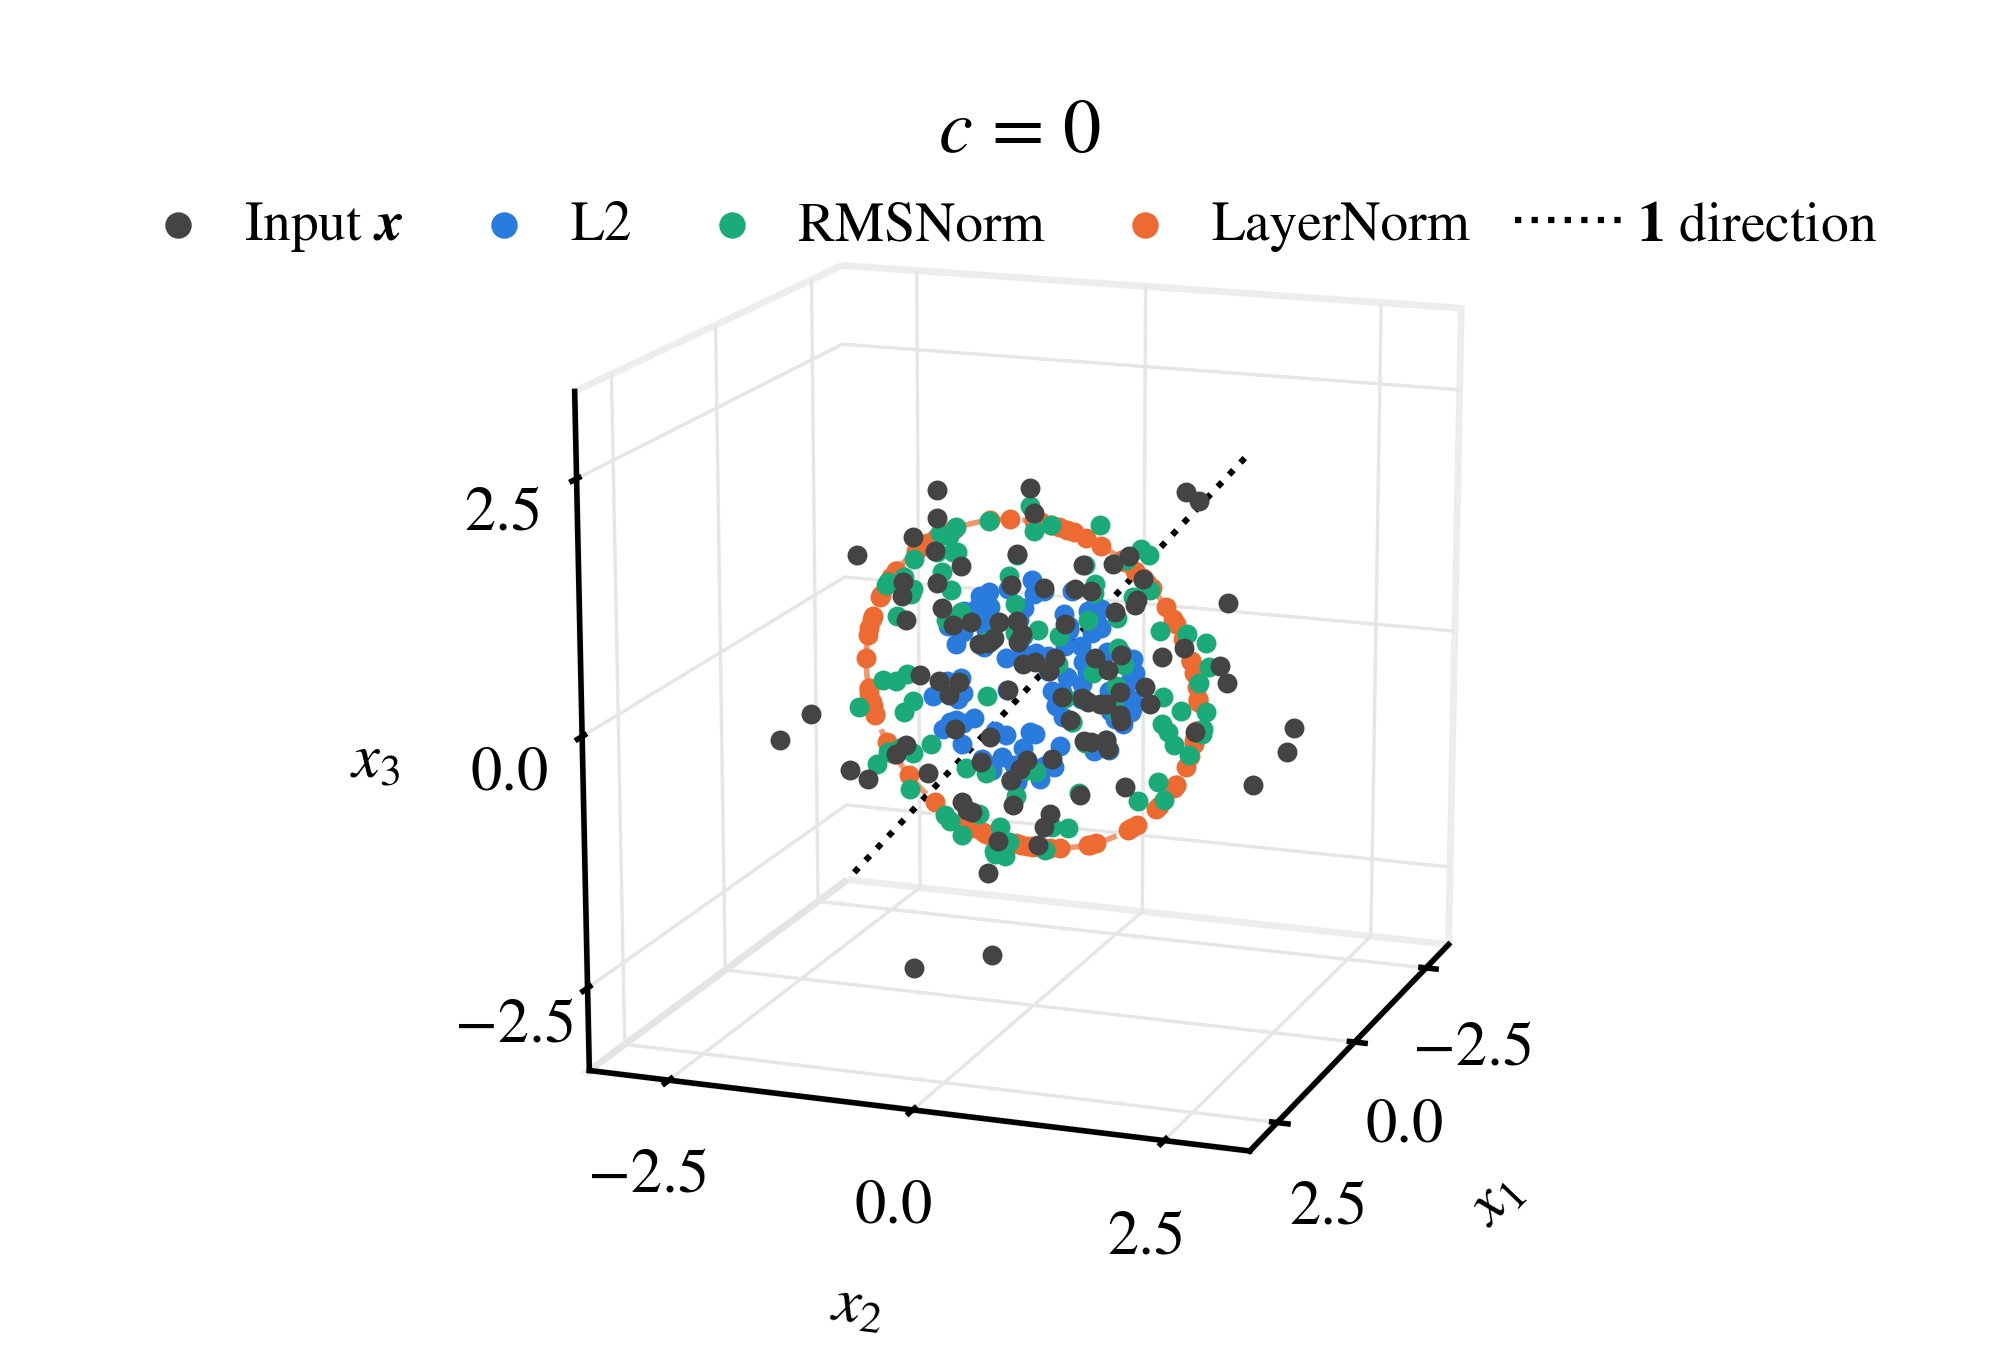
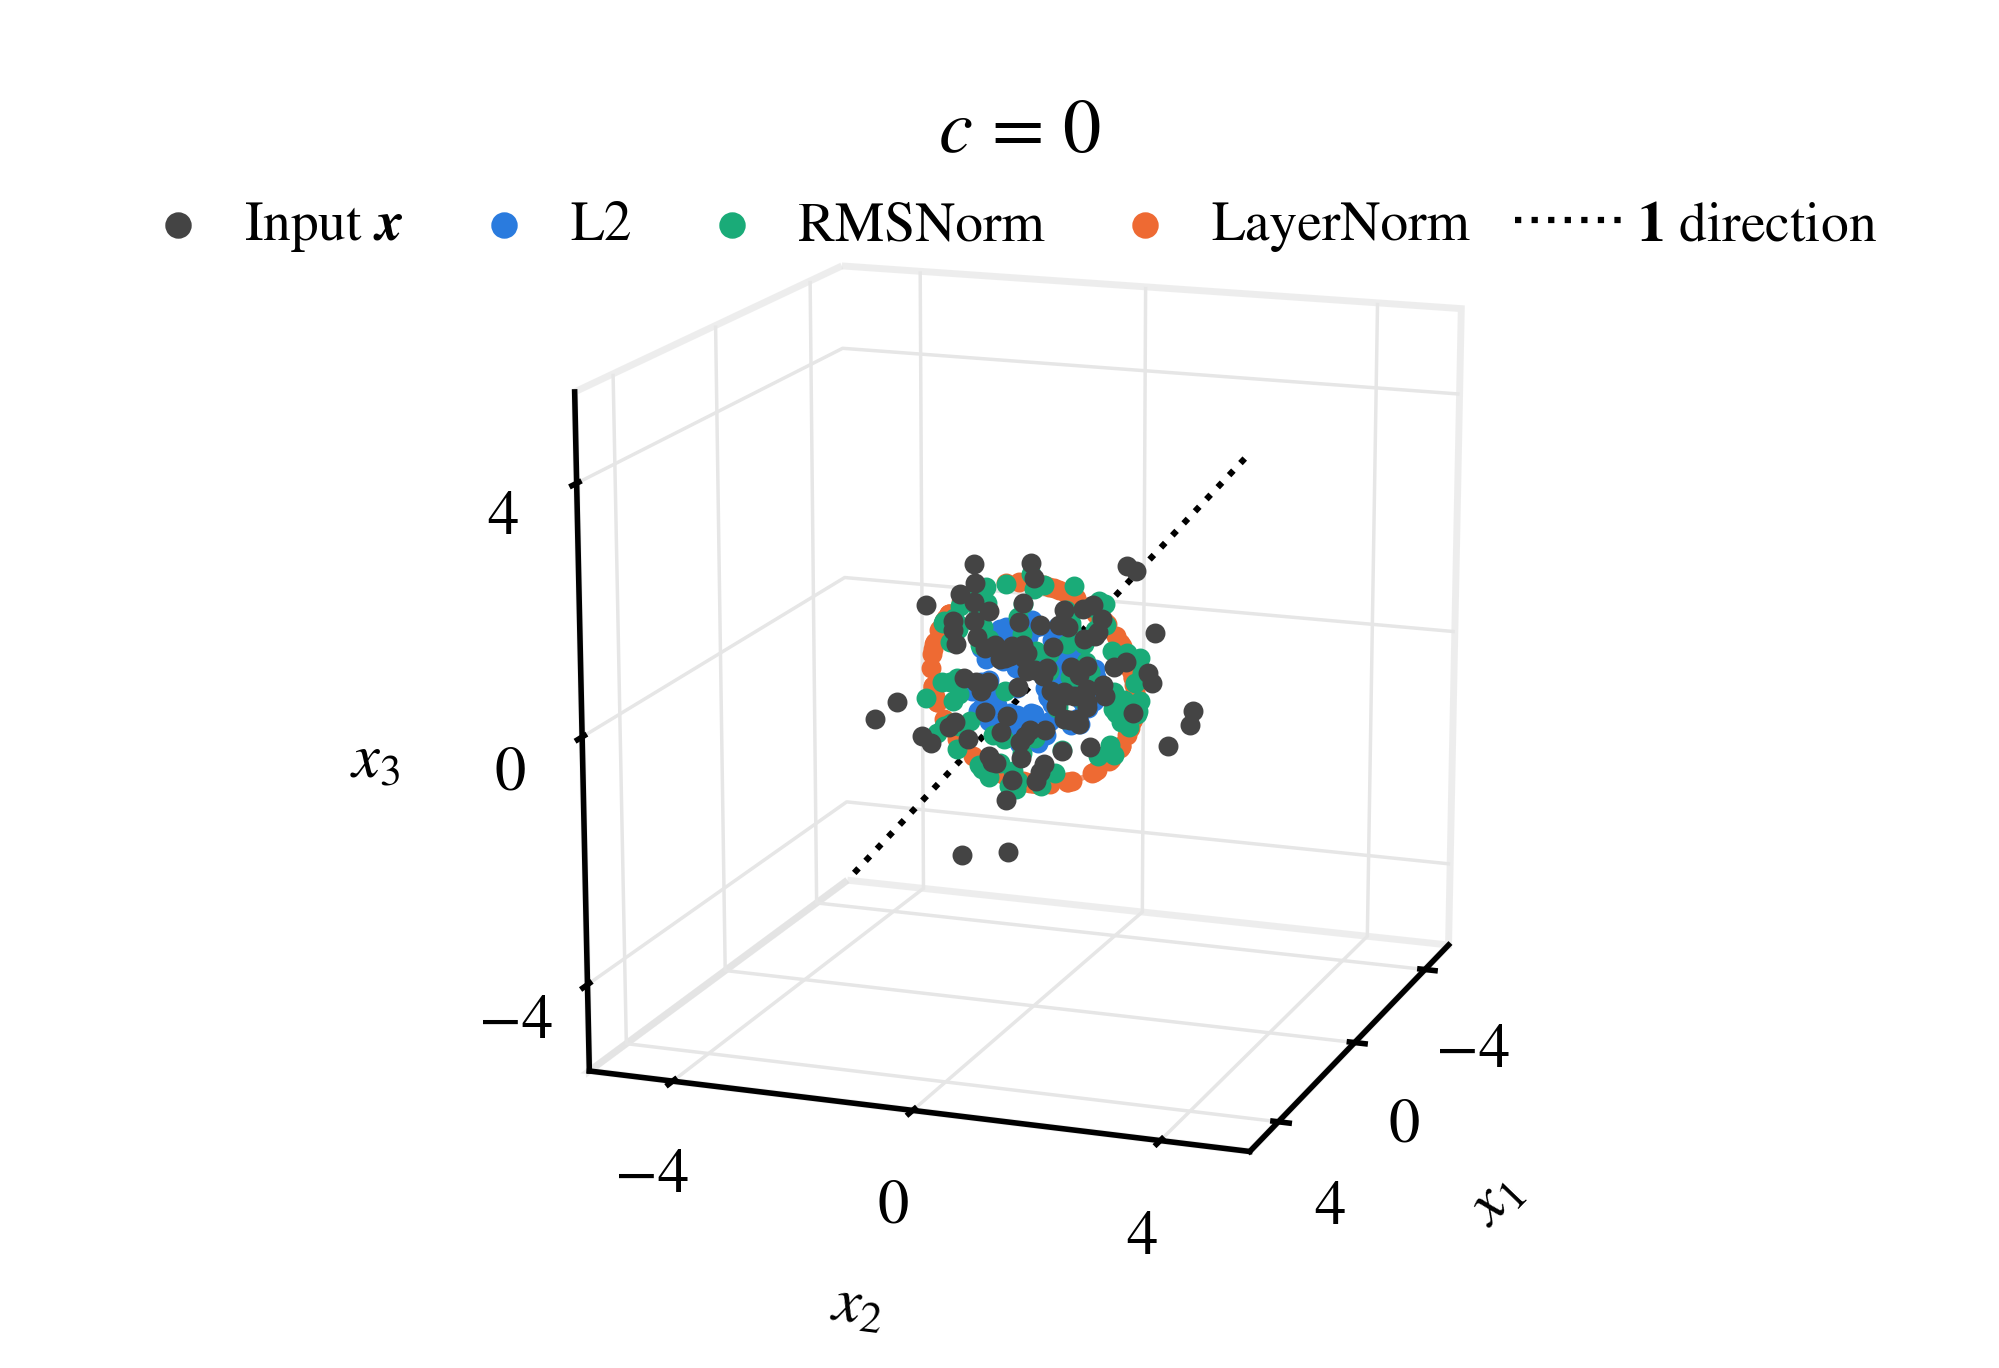
modified

diff --git a/assets/code/normalization/norm_geometry.py b/assets/code/normalization/norm_geometry.py
@@ -14,8 +14,9 @@ import numpy as np
 
 D, N, EPS, SEED = 3, 100, 1e-5, 0
 COLORS = {"input": "#444444", "l2": "#2a7bde", "rms": "#1aab78", "ln": "#ee6a33"}
-# Axis ticks and limits for each shift c.
-SETTINGS = {0: dict(ticks=[-2.5, 0.0, 2.5], lim=3.2), 2: dict(ticks=[-4, 0, 4], lim=5.2)}
+# The shifts c to draw, and one set of axis ticks and limits shared by all panels so they can be compared directly.
+C_VALUES = [0, 2]
+AXIS = dict(ticks=[-4, 0, 4], lim=5.2)
 
 plt.rcParams.update({
     "font.family": "STIXGeneral",
@@ -48,7 +49,6 @@ def ln_circle(n=200):
 
 def plot(c, Z, out):
     X = Z + c
-    cfg = SETTINGS[c]
     fig = plt.figure(figsize=(3.2, 2.7))
     ax = fig.add_subplot(projection="3d")
     ax.set_box_aspect((1, 1, 1), zoom=1.1)
@@ -60,22 +60,22 @@ def plot(c, Z, out):
     ax.scatter(*rmsnorm(X).T, s=s, color=COLORS["rms"], label="RMSNorm", depthshade=False)
     ax.scatter(*layernorm(X).T, s=s, color=COLORS["ln"], label="LayerNorm", depthshade=False)
     ax.plot(*ln_circle().T, color=COLORS["ln"], lw=0.8, ls="--", alpha=0.7)
-    t = np.array([-cfg["lim"], cfg["lim"]])
+    t = np.array([-AXIS["lim"], AXIS["lim"]])
     ax.plot(t, t, t, color="black", lw=0.9, ls=":", label=r"$\mathbf{1}$ direction")
 
     for axis, name in zip((ax.xaxis, ax.yaxis, ax.zaxis), ("$x_1$", "$x_2$", "$x_3$")):
         axis.pane.fill = False
         axis.pane.set_edgecolor("#dddddd")
         axis._axinfo["grid"].update(color="#e6e6e6", linewidth=0.5)
-        axis.set_ticks(cfg["ticks"])
+        axis.set_ticks(AXIS["ticks"])
         axis.set_label_text(name)
         axis.labelpad = -4
     ax.tick_params(pad=-2)
     ax.zaxis.set_rotate_label(False)
     ax.zaxis.label.set_rotation(0)
-    ax.set_xlim(-cfg["lim"], cfg["lim"])
-    ax.set_ylim(-cfg["lim"], cfg["lim"])
-    ax.set_zlim(-cfg["lim"], cfg["lim"])
+    ax.set_xlim(-AXIS["lim"], AXIS["lim"])
+    ax.set_ylim(-AXIS["lim"], AXIS["lim"])
+    ax.set_zlim(-AXIS["lim"], AXIS["lim"])
 
     ax.set_title(f"$c$ = {c}", y=1.07, fontsize=11)
     fig.legend(loc="upper center", bbox_to_anchor=(0.5, 0.9), ncol=5, frameon=False,
@@ -91,7 +91,7 @@ def main():
 
     # The same z is used for every c, so the LayerNorm outputs are identical across figures.
     Z = np.random.default_rng(SEED).standard_normal((N, D))
-    for c in SETTINGS:
+    for c in C_VALUES:
         plot(c, Z, f"norm_geometry_c{c}.pdf")
         if args.png:
             plot(c, Z, f"norm_geometry_c{c}.png")
